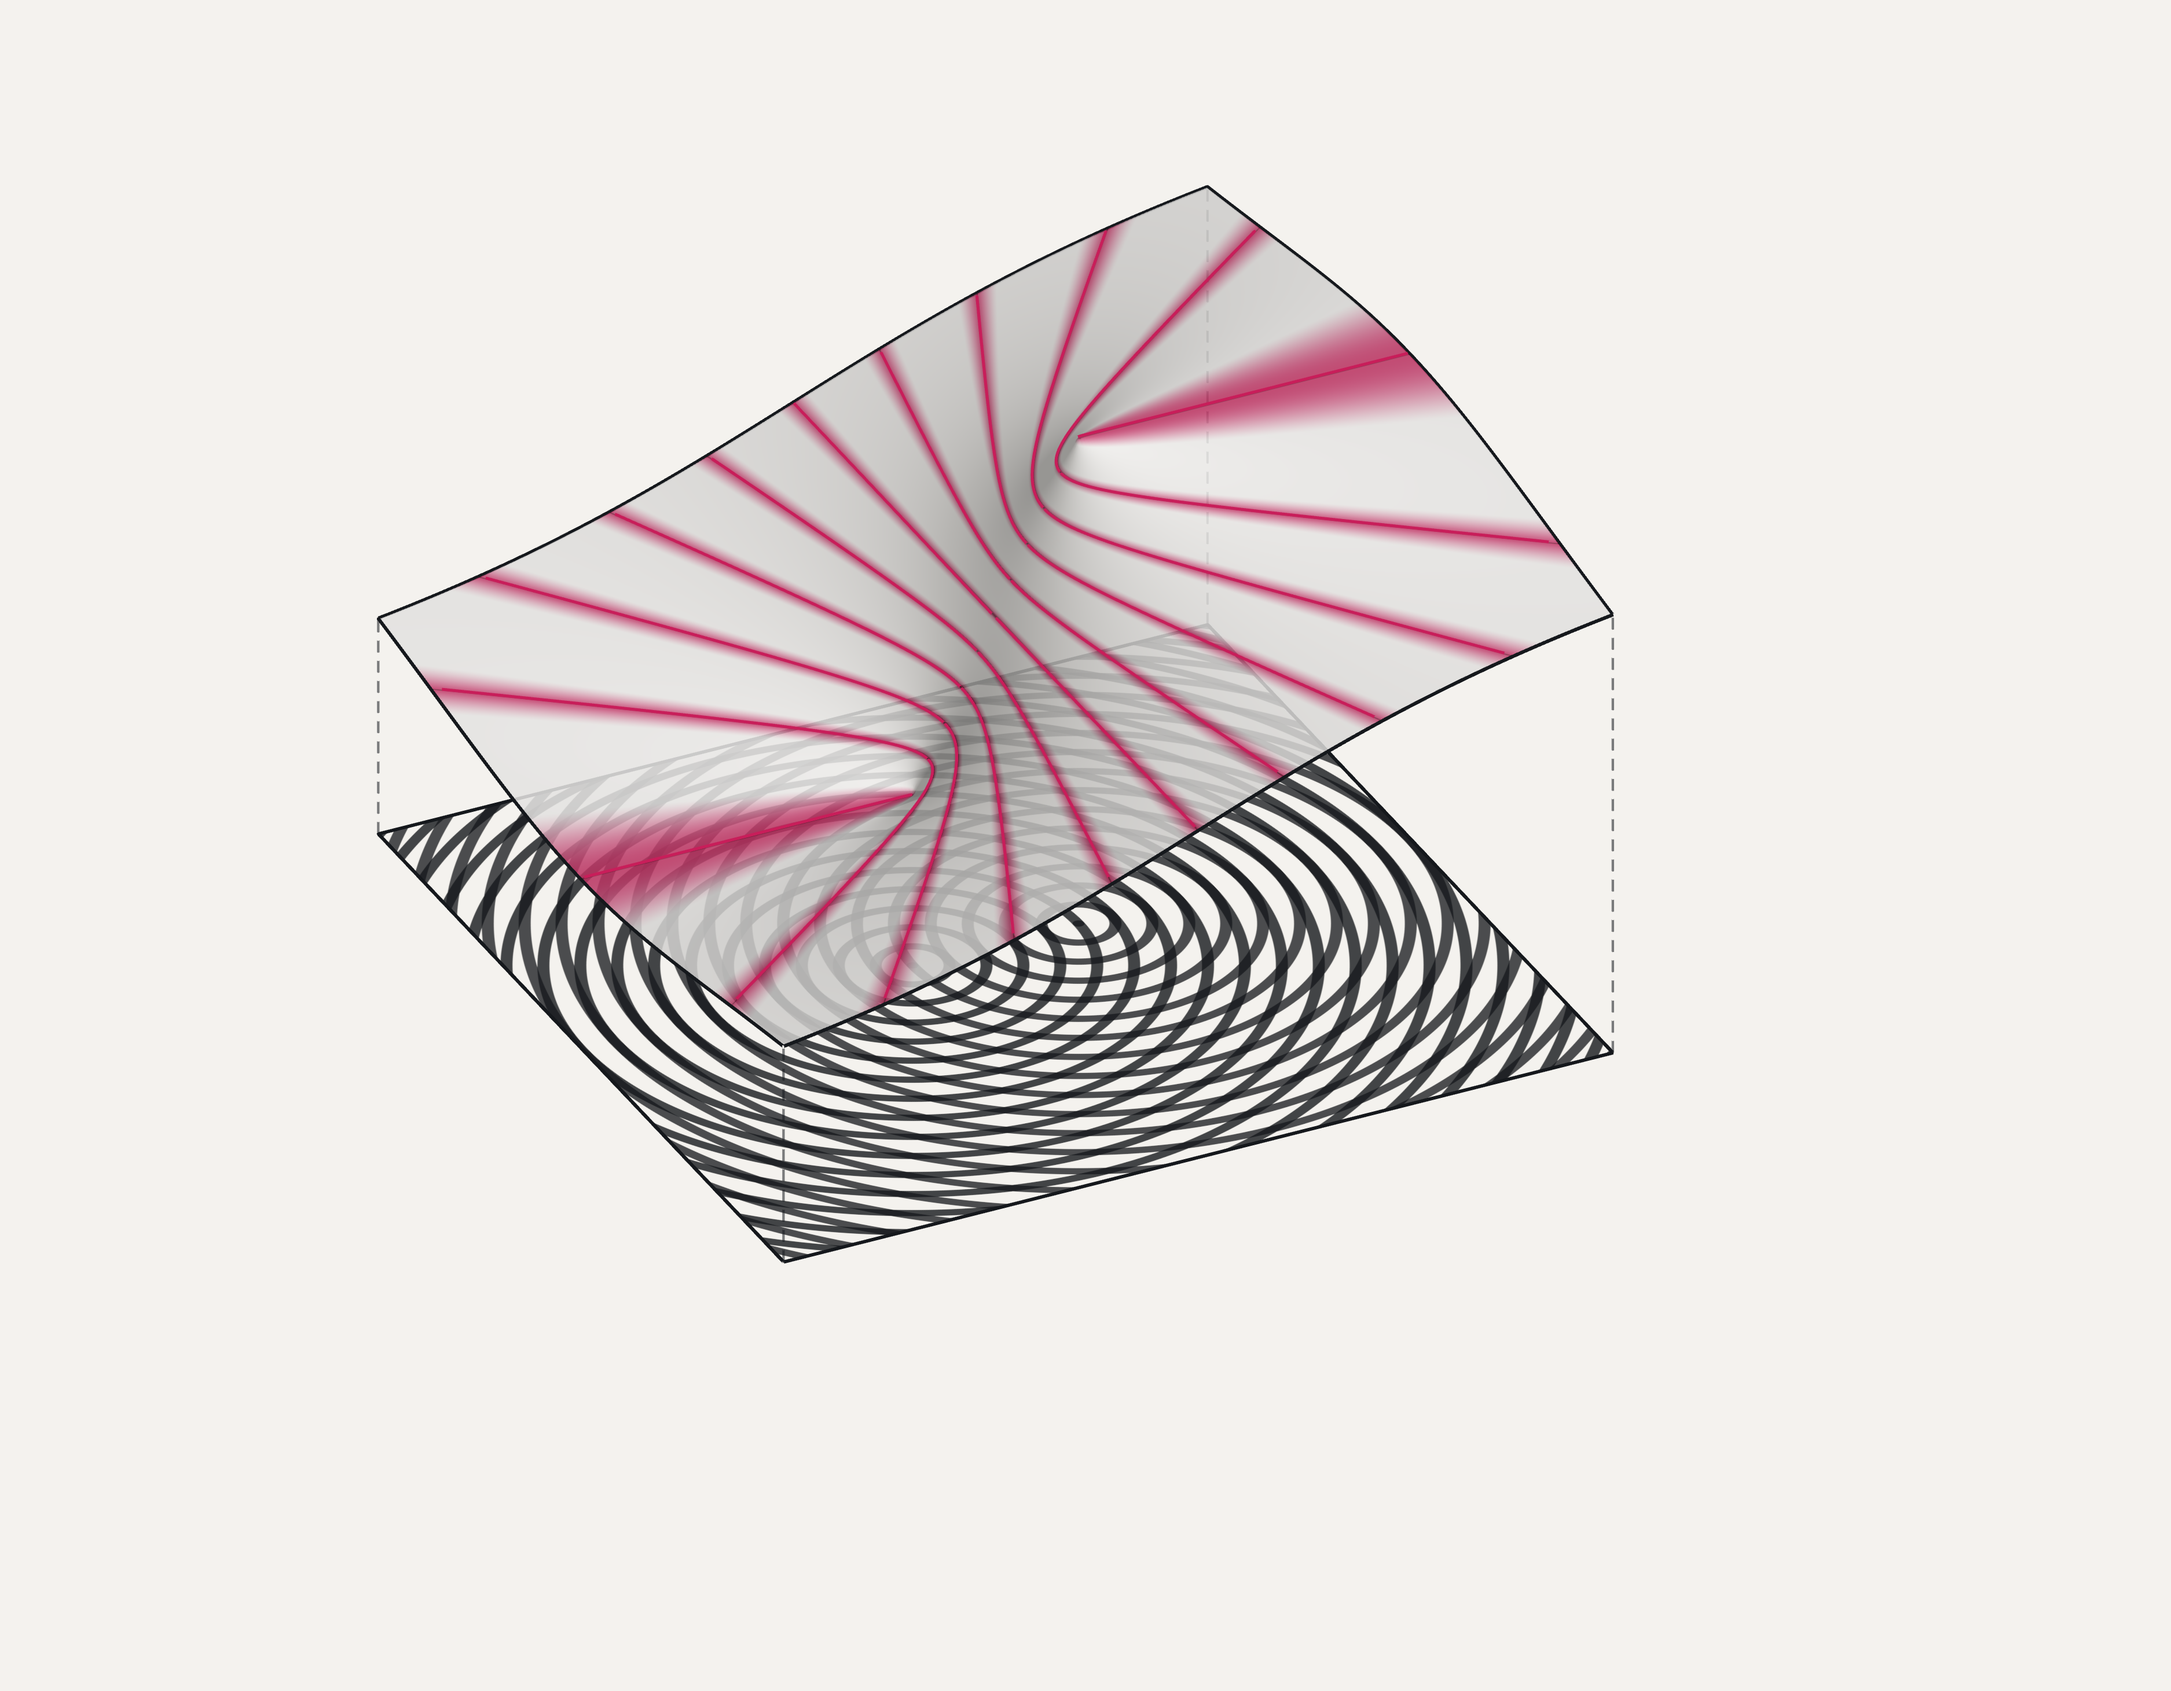
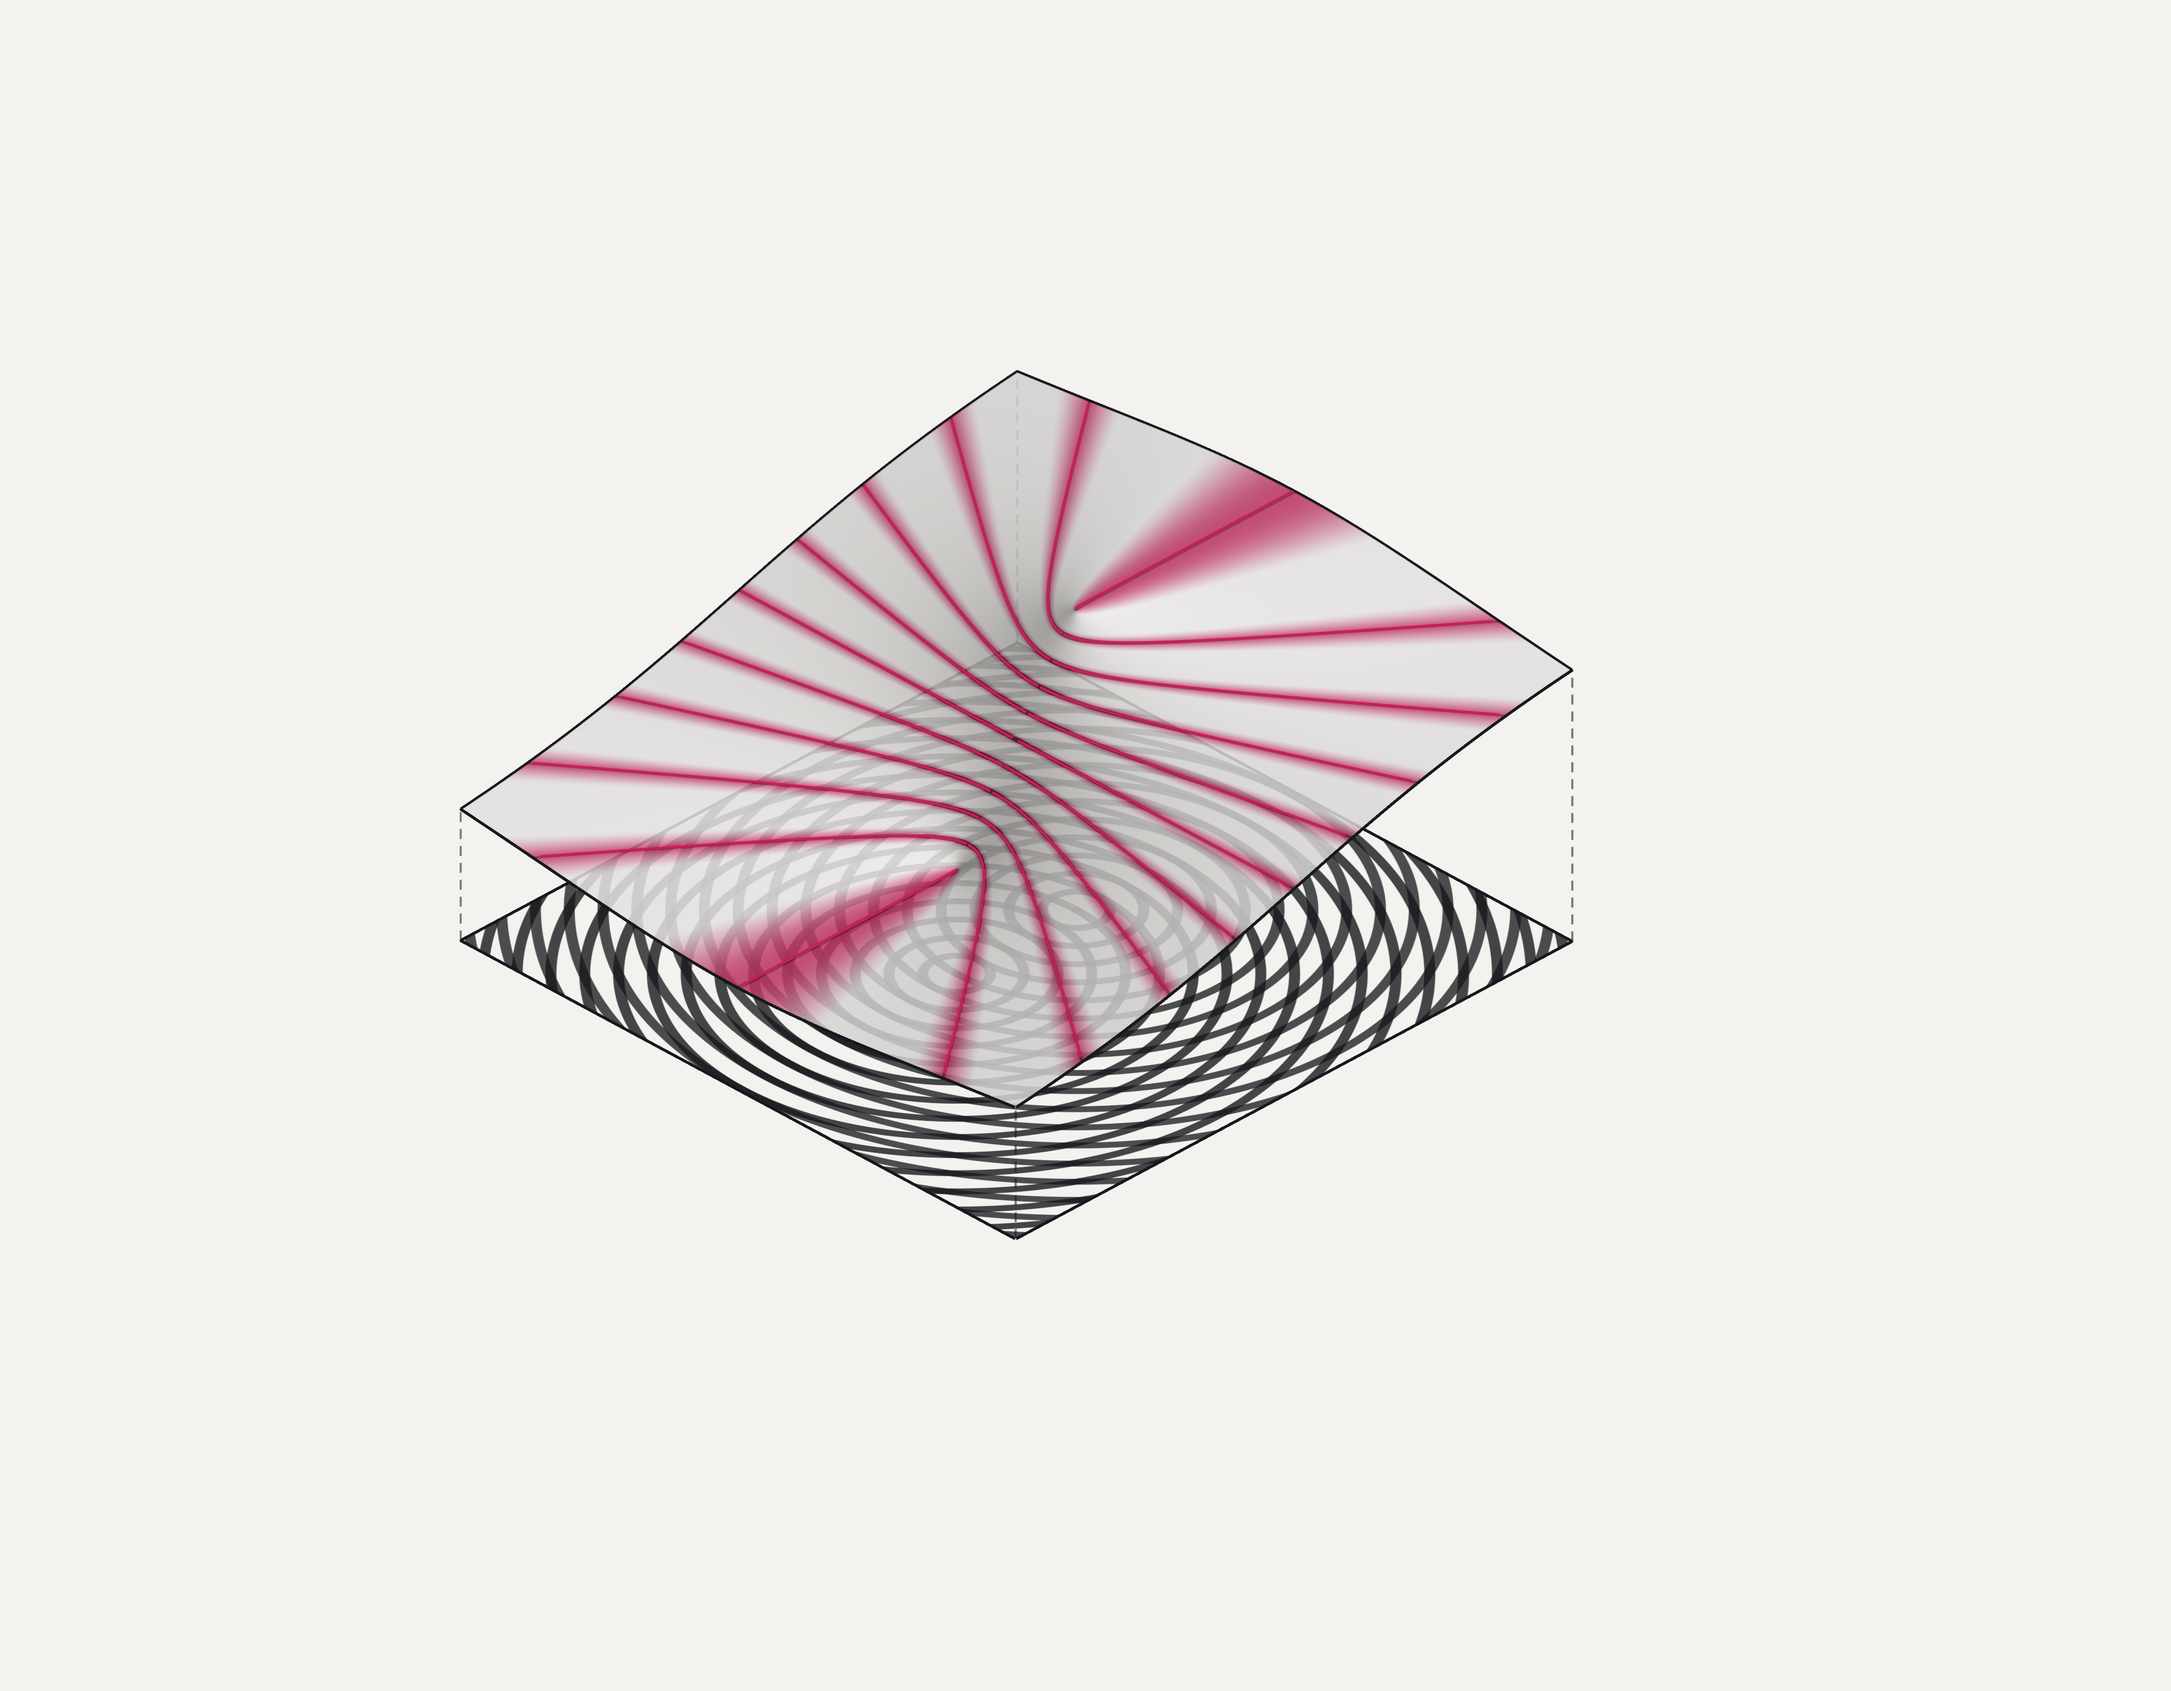
Fig 4 is the real two-panel render, annotated in vector Libertine over the raster

Changed region(s): [[0.156, 0.0934, 0.7488, 0.7474], [0.7176, 0.3426, 0.7488, 0.3737]]

diff --git a/public/paper/index.html b/public/paper/index.html
@@ -928,24 +928,18 @@ frame fringe-free while the fringe stands in the render.
 superposition), the envelope sweeps orthogonally to whichever one the
 criterion picks, and for lattice layers, whose index is a vector, the same
 characters range over integer combinations of generators (supplemental § S3).</p>
-<figure class="paper-figure wide" id="fig-4"><img class="tikz" style="width:100.0%" src="figures/tikz-af93d25562c7.png" width="2175" height="783" alt=""><figcaption><span class="fignum">Fig. 4.</span> <strong>Characters as hills over the pattern.</strong> 
-  Two ring families of equal pitch, centres a few pitches apart (floor).
-  Every integer combination $k_1\idx_1+k_2\idx_2$ is a height function over
-  the same superposition, and the moiré question is which hill is flat.
-  <strong>Left:</strong> the graph of the difference <span class="nowrap">$D=\idx_1-\idx_2$.</span> Its integer
-  levels are contours on this hill, and they project down onto the confocal
-  hyperbolae the eye picks out as fringes (dashed drops). Where the hill lies
-  flat the contours spread and the fringe is broad; on the wall between the
-  two centres (stippled) the same contours crowd at the carrier's own scale
-  and no fringe survives. The heterodyne ratio (<a href="#eq-11">11</a>) is exactly
-  this steepness measured against the mean slope of the carriers: curves are
-  drawn bold where their spacing clears the carrier comfortably and thin
-  where it approaches it. <strong>Right:</strong> the sum $\idx_1+\idx_2$ over the
-  same floor is a bowl steep nearly everywhere at this separation  —  its
-  contours crowd into a texture at the carrier scale, and its fringe system
-  never forms. The criterion of <a href="#sec-3-6">§3.6</a> is therefore a
-  <em>minimum over characters</em>, taken pointwise: the eye reads, at each
-  point, whichever hill lies flattest.</figcaption></figure>
+<figure class="paper-figure wide" id="fig-4"><img class="tikz" style="width:100.0%" src="figures/tikz-8c05083a1180.png" width="2119" height="879" alt=""><figcaption><span class="fignum">Fig. 4.</span> <strong>Characters as hills over the pattern.</strong> 
+  Two identical ring families (floor); above them, the graph of an integer
+  character of their indices, its integer levels drawn on the surface.
+  <strong>Left:</strong> the difference <span class="nowrap">$D=\idx_1-\idx_2$.</span> Its levels are the
+  confocal hyperbolae; where the sheet lies flat they spread into the broad
+  fringes the eye picks out of the moiré below, and on the steep wall
+  between the centres they crowd at the carrier's own scale. <strong>Right:</strong>
+  the sum $\idx_1+\idx_2$ over the same floor is steep nearly everywhere  — 
+  its levels crowd into texture, no broad fringe forms, and the one flat
+  stretch, the inter-focal segment, carries the sum's one visible fringe.
+  The criterion of <a href="#sec-3-6">§3.6</a> is this comparison made pointwise:
+  the visible moiré is the character whose hill lies flattest.</figcaption></figure>
 <h3 id="sec-3-5"><span class="secnum">3.5</span> The envelope view</h3>
 <p>$\bar\alpha$ is a quantity, so it can be drawn, and drawing it gives the author
 the fringe system with the carrier removed. The obvious way to get such a picture

diff --git a/paper/sec-field.tex b/paper/sec-field.tex
@@ -280,39 +280,64 @@ characters range over integer combinations of generators (supplemental \S S3).
 
 \begin{figure*}[t]
   \centering
-  \input{fig-charhills}
-  \Description{Two hand-drawn three-dimensional panels. In each, a flat floor
-  patch carries two families of fine concentric circles around nearby centres,
-  and a curved surface floats above it. Left panel: the surface is a ramp
-  rising from left to right with a steep central cliff shaded by stippled
-  dots; bold contour lines cross its flatter flanks at integer heights, and
-  dashed vertical lines drop from three of them to bold hyperbola-shaped
-  fringe curves on the floor, which fan out from the region between the circle
-  centres like spokes. A vertical axis at the left is labelled D equals phi
-  one minus phi two; labels read graph of the difference, contours at integer
-  D are the fringes, steep: no fringe, and two ring families. Right panel:
-  over the same floor the surface is a bowl covered in finely crowded faint
-  contour rings, labelled the sum phi one plus phi two: steep everywhere here;
-  the floor below shows only the two carrier families, labelled no fringe
-  survives.}
+  \begin{tikzpicture}
+    \node[anchor=south west, inner sep=0] (img) at (0,0)
+      {\includegraphics[width=\linewidth]{figures/charhills}};
+    \begin{scope}[shift={(img.south west)},
+        x={($ (img.south east)-(img.south west) $)},
+        y={($ (img.north west)-(img.south west) $)}]
+      \tikzset{lab/.style={font=\footnotesize, inner sep=1pt}}
+      \tikzset{lead/.style={-{Stealth[length=4.5pt]}, line width=0.55pt}}
+      \node[lab, text=ink, align=left, anchor=west] (gl) at (0.012,0.83)
+        {the graph of $D=\idx_1-\idx_2$};
+      \draw[lead, ink!65] (gl.south) to[out=-70,in=110] (0.138,0.545);
+      \node[lab, text=accent!88!ink, anchor=west] (cl) at (0.418,0.885)
+        {contours at $D\in\Z$\,\dots};
+      \draw[lead, accent!75] (cl.west) to[out=205,in=50] (0.352,0.705);
+      \node[lab, text=accent!88!ink, anchor=west] (fl) at (0.415,0.24)
+        {\dots are the fringes};
+      \draw[lead, accent!75] (fl.west) to[out=190,in=-25] (0.362,0.368);
+      \node[lab, text=ink!80, align=center, anchor=south] (wl) at (0.285,0.955)
+        {steep:\\contours crowd};
+      \draw[lead, ink!60] (wl.south) to[out=-85,in=95] (0.276,0.640);
+      \node[lab, text=ink!70, anchor=west] (rl) at (0.055,0.065)
+        {two ring families};
+      \draw[lead, ink!55] (rl.east) to[out=10,in=205] (0.272,0.145);
+      \node[lab, text=cool!90!ink, align=right, anchor=east] (sl) at (0.995,0.85)
+        {the sum $\idx_1+\idx_2$:\\steep everywhere};
+      \draw[lead, cool!75] (sl.south) to[out=-120,in=40] (0.768,0.712);
+      \node[lab, text=cool!90!ink, align=left, anchor=west] (pl) at (0.552,0.935)
+        {flat only between\\the centres};
+      \draw[lead, cool!75] (pl.south) to[out=-62,in=118] (0.752,0.498);
+      \node[lab, text=ink!70, anchor=east] (nl) at (0.998,0.115)
+        {no broad fringe};
+      \draw[lead, ink!55] (nl.west) to[out=178,in=-55] (0.882,0.310);
+    \end{scope}
+  \end{tikzpicture}
+  \Description{Two orthographic 3D renders side by side. In each, a floor
+  patch carries two superposed families of fine concentric rings whose
+  overlap forms a moire, and a translucent surface floats above it, joined
+  to the floor by dashed vertical corner posts. Left: the surface is the
+  graph of the index difference, a twisted sheet carrying broad crimson
+  bands that widen where the sheet lies flat and crowd into a wall between
+  the ring centres; labels read the graph of D, contours at integer D are
+  the fringes, steep: contours crowd, and two ring families. Right: the
+  same floor under the graph of the index sum, a bowl covered in tightly
+  crowded blue rings with one bold flat bar between the centres; labels
+  read the sum: steep everywhere, flat only between the centres, and no
+  broad fringe.}
   \caption{\figlead{Characters as hills over the pattern.}
-  Two ring families of equal pitch, centres a few pitches apart (floor).
-  Every integer combination $k_1\idx_1+k_2\idx_2$ is a height function over
-  the same superposition, and the moir\'e question is which hill is flat.
-  \textbf{Left:} the graph of the difference $D=\idx_1-\idx_2$. Its integer
-  levels are contours on this hill, and they project down onto the confocal
-  hyperbolae the eye picks out as fringes (dashed drops). Where the hill lies
-  flat the contours spread and the fringe is broad; on the wall between the
-  two centres (stippled) the same contours crowd at the carrier's own scale
-  and no fringe survives. The heterodyne ratio \eqref{eq:ratio} is exactly
-  this steepness measured against the mean slope of the carriers: curves are
-  drawn bold where their spacing clears the carrier comfortably and thin
-  where it approaches it. \textbf{Right:} the sum $\idx_1+\idx_2$ over the
-  same floor is a bowl steep nearly everywhere at this separation --- its
-  contours crowd into a texture at the carrier scale, and its fringe system
-  never forms. The criterion of \S\ref{sec:visibility} is therefore a
-  \emph{minimum over characters}, taken pointwise: the eye reads, at each
-  point, whichever hill lies flattest.}
+  Two identical ring families (floor); above them, the graph of an integer
+  character of their indices, its integer levels drawn on the surface.
+  \textbf{Left:} the difference $D=\idx_1-\idx_2$. Its levels are the
+  confocal hyperbolae; where the sheet lies flat they spread into the broad
+  fringes the eye picks out of the moir\'e below, and on the steep wall
+  between the centres they crowd at the carrier's own scale. \textbf{Right:}
+  the sum $\idx_1+\idx_2$ over the same floor is steep nearly everywhere ---
+  its levels crowd into texture, no broad fringe forms, and the one flat
+  stretch, the inter-focal segment, carries the sum's one visible fringe.
+  The criterion of \S\ref{sec:visibility} is this comparison made pointwise:
+  the visible moir\'e is the character whose hill lies flattest.}
   \label{fig:hills}
 \end{figure*}
 

diff --git a/paper/fig4-assets/fig4-annotate.tex b/paper/fig4-assets/fig4-annotate.tex
@@ -1,0 +1,56 @@
+\documentclass[border=6pt]{standalone}
+\usepackage{libertine}
+\usepackage[T1]{fontenc}
+\usepackage{amssymb}
+\usepackage{tikz}
+\usetikzlibrary{calc, arrows.meta}
+\definecolor{ink}{HTML}{15181C}
+\definecolor{accent}{HTML}{C81E5A}
+\definecolor{cool}{HTML}{1B6CA8}
+\newcommand{\idx}{\phi}
+\begin{document}
+\begin{tikzpicture}
+  \node[anchor=south west, inner sep=0] (img) at (0,0)
+    {\includegraphics[width=17cm]{fig4-final.png}};
+  \begin{scope}[shift={(img.south west)},
+      x={($ (img.south east)-(img.south west) $)},
+      y={($ (img.north west)-(img.south west) $)}]
+    \tikzset{lab/.style={font=\footnotesize, inner sep=1pt}}
+    \tikzset{lead/.style={-{Stealth[length=4.5pt]}, line width=0.55pt}}
+
+    % ---------- panel A: the difference ----------
+    \node[lab, text=ink, align=left, anchor=west] (gl) at (0.012,0.83)
+      {the graph of $D=\idx_1-\idx_2$};
+    \draw[lead, ink!65] (gl.south) to[out=-70,in=110] (0.138,0.545);
+
+    \node[lab, text=accent!88!ink, anchor=west] (cl) at (0.418,0.885)
+      {contours at $D\in\mathbb{Z}$\,\dots};
+    \draw[lead, accent!75] (cl.west) to[out=205,in=50] (0.352,0.705);
+
+    \node[lab, text=accent!88!ink, anchor=west] (fl) at (0.415,0.24)
+      {\dots are the fringes};
+    \draw[lead, accent!75] (fl.west) to[out=190,in=-25] (0.362,0.368);
+
+    \node[lab, text=ink!80, align=center, anchor=south] (wl) at (0.285,0.955)
+      {steep:\\contours crowd};
+    \draw[lead, ink!60] (wl.south) to[out=-85,in=95] (0.276,0.640);
+
+    \node[lab, text=ink!70, anchor=west] (rl) at (0.055,0.065)
+      {two ring families};
+    \draw[lead, ink!55] (rl.east) to[out=10,in=205] (0.272,0.145);
+
+    % ---------- panel B: the sum ----------
+    \node[lab, text=cool!90!ink, align=right, anchor=east] (sl) at (0.995,0.85)
+      {the sum $\idx_1+\idx_2$:\\steep everywhere};
+    \draw[lead, cool!75] (sl.south) to[out=-120,in=40] (0.768,0.712);
+
+    \node[lab, text=cool!90!ink, align=left, anchor=west] (pl) at (0.552,0.935)
+      {flat only between\\the centres};
+    \draw[lead, cool!75] (pl.south) to[out=-62,in=118] (0.752,0.498);
+
+    \node[lab, text=ink!70, anchor=east] (nl) at (0.998,0.115)
+      {no broad fringe};
+    \draw[lead, ink!55] (nl.west) to[out=178,in=-55] (0.882,0.310);
+  \end{scope}
+\end{tikzpicture}
+\end{document}
